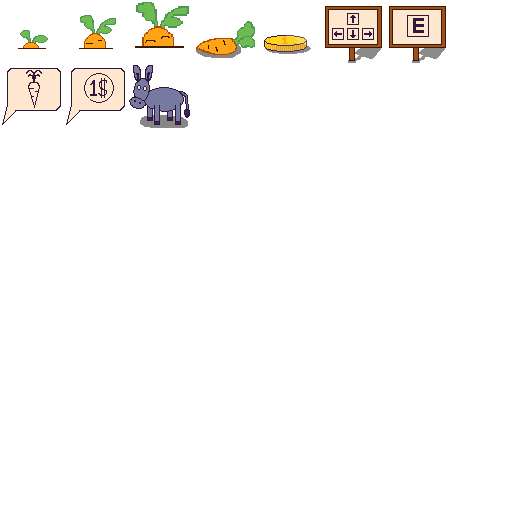
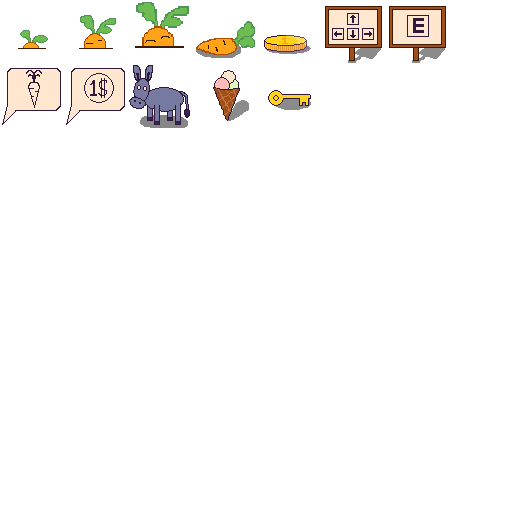
ftr(Game): add king movement

Changed region(s): [[0.4062, 0.125, 0.5, 0.25], [0.5312, 0.1562, 0.625, 0.2188]]

diff --git a/src/scenes/Game.js b/src/scenes/Game.js
@@ -55,13 +55,13 @@ export default class Game extends Phaser.Scene {
     /** @type {Array} */
     guards;
 
-    /** @type {Phaser.GameObjects.Sprite} */
-    donkey;
-
     invisibleWalls = {
         /** @type {Phaser.GameObjects.Zone} */
         guard: null
     }
+
+    /** @type {Phaser.GameObjects.Sprite} */
+    king;
 
     playerOnSecretPlace = false;
 
@@ -112,7 +112,10 @@ export default class Game extends Phaser.Scene {
             frameWidth: 128,
             frameHeight: 64
         });
-        me.load.image('king', 'assets/king.png');
+        me.load.spritesheet('king', 'assets/king.png', {
+            frameWidth: 64,
+            frameHeight: 64,
+        });
         me.load.spritesheet('saler', 'assets/saler.png', {
             frameWidth: 64,
             frameHeight: 64
@@ -130,6 +133,7 @@ export default class Game extends Phaser.Scene {
         me.load.image('roof_donkey', 'assets/roof_donkey.png');
         me.load.audio('tick', 'assets/sfx/tick.mp3');
         me.load.audio('earthquake', 'assets/sfx/earthquake.wav');
+        me.load.image('castle_door', 'assets/castle_door.png');
     }
 
     create() {
@@ -218,7 +222,22 @@ export default class Game extends Phaser.Scene {
             Consts.unit * 2);
         me.physics.world.enable(me.invisibleWalls.guard, Phaser.Physics.Arcade.STATIC_BODY);
 
-        me.add.sprite(0, -1152, 'king');
+        me.king = me.add.sprite(0, -1152, 'king', 0);
+        me.king.moving = false;
+
+        me.anims.create({
+            key: 'king_walk',
+            frames: me.anims.generateFrameNumbers('king', { frames: [ 0, 1, 2, 1 ] }),
+            frameRate: 4,
+            repeat: -1,
+        });
+
+        me.anims.create({
+            key: 'king_icecream',
+            frames: me.anims.generateFrameNumbers('king', { frames: [ 3, 4 ] }),
+            frameRate: 2,
+            repeat: -1,
+        });
 
         me.anims.create({
             key: 'saler',
@@ -253,6 +272,10 @@ export default class Game extends Phaser.Scene {
         me.physics.add.collider(me.player.container, desert);
 
         me.physics.add.collider(me.player.container, me.invisibleWalls.guard);
+
+        me.castleDoor = me.add.sprite(288, -896, 'castle_door');
+        me.physics.world.enable(me.castleDoor, Phaser.Physics.Arcade.STATIC_BODY);
+        me.physics.add.collider(me.player.container, me.castleDoor);
 
         me.createTip(
             me.add.zone(
@@ -378,6 +401,38 @@ export default class Game extends Phaser.Scene {
 
             me.cameraViews.main.scrollX = me.cameraViews.beforeShakeX + Phaser.Math.Between(-5, 5);
             me.cameraViews.main.scrollY = me.cameraViews.beforeShakeY + Phaser.Math.Between(-5, 5);
+        }
+        
+        if (time > Consts.times.king && !me.king.moving) {
+            me.king.moving = true;
+            me.king.play('king_walk')
+
+            const kingTimeline = me.tweens.createTimeline();
+            kingTimeline
+                .add({
+                    targets: me.king,
+                    x: 288,
+                    duration: 3000,
+                })
+                .add({
+                    targets: me.king,
+                    y: -965,
+                    duration: 2000,
+                    onComplete: () => { me.castleDoor.setVisible(false)}
+                })
+                .add({
+                    targets: me.king,
+                    y: -830,
+                    duration: 1500,
+                    onComplete: () => { me.castleDoor.setVisible(true)}
+                })
+                .add({
+                    targets: me.king,
+                    x: 0,
+                    y: -600,
+                    duration: 4000,
+                })
+                .play();
         }
 
         if (me.debug) {

diff --git a/src/game/CameraViews.js b/src/game/CameraViews.js
@@ -30,11 +30,11 @@ export default class CameraViews {
         me.offsetY = scene.scale.height / -2
         me.main.startFollow(scene.player.container, true, 1, 0.25);
         
-        me.main.setBounds(
-            scene.scale.width / -2, 
-            Consts.cityStartY + 16,
-            scene.scale.width,
-            4864);
+        // me.main.setBounds(
+        //     scene.scale.width / -2, 
+        //     Consts.cityStartY + 16,
+        //     scene.scale.width,
+        //     4864);
 
         if (secondCamera) {
             const size = 200;

diff --git a/src/game/Consts.js b/src/game/Consts.js
@@ -6,8 +6,8 @@ export default class Consts {
     static donkeyVelocity = 640;
 
     static playerSpawn = new Phaser.Geom.Point(
-        0, 
-        -2229); 
+        95, 
+        -1082); 
         // -218,
         // -4810);
 
@@ -60,7 +60,8 @@ export default class Consts {
     }
 
     static times = {
-        start: 0,
+        start: 43,
+        king: 45,
         startShaking: 54,
         startFade: 57,
         stopFade: 60,
